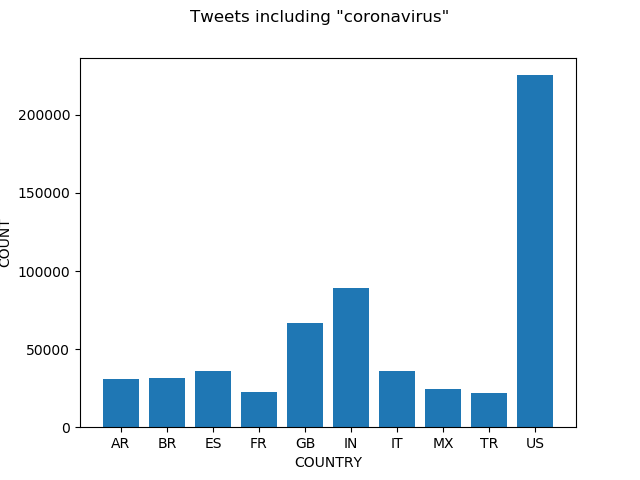
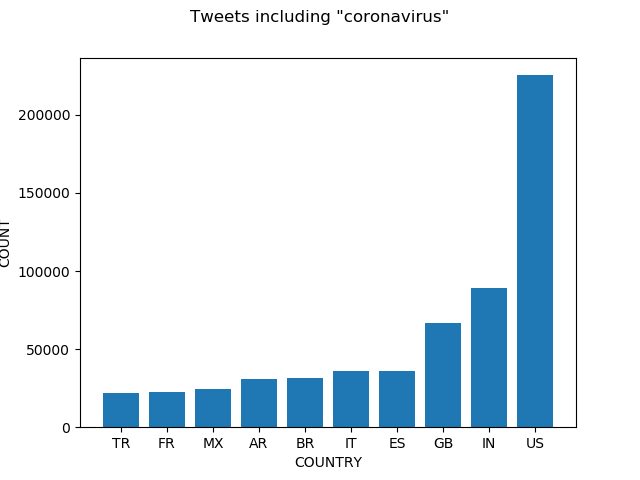
sorting update

diff --git a/src/visualize.py b/src/visualize.py
@@ -27,27 +27,32 @@ if args.percent:
     for k in counts[args.key]:
         counts[args.key][k] /= counts['_all'][k]
 
-# print the count values
+# store values in hashmap
 items = sorted(counts[args.key].items(), key=lambda item: (item[1],item[0]), reverse=True)
 hashmap = {}
 for k,v in items:
     hashmap[k] = v
 
+# get top 10 most tweeted countries/locations
 top_10 = heapq.nlargest(10, hashmap, key=hashmap.get)
 num_tweets = []
 for i in top_10:
     num_tweets.append(hashmap[i])
 
+# sort data from low to high
 sorted_data = sorted(zip(num_tweets, top_10))
 y_data, x_data = zip(*sorted_data)
 
-print(x_data)
-print(y_data)
-iey = args.key.split('#')[1]
-x = args.input_path.split('.')[1].upper()
+# build bar chart
+x = args.input_path.split('.')[2].upper()
 key = args.key.split('#')[1]
-plt.bar(x_data, y_data)
-plt.suptitle(f'Number of Tweets by {x}')
+plt.bar(range(len(y_data)), y_data)
+plt.suptitle(f'Tweets including "{key}"')
+plt.xlabel(f'{x}')
+plt.ylabel("COUNT")
+plt.xticks(range(len(x_data)), x_data)  # set tick labels
+
+# save chart as png file
 plt.savefig(f'{key}_tweets_by_{x.lower()}.png')
 
 
